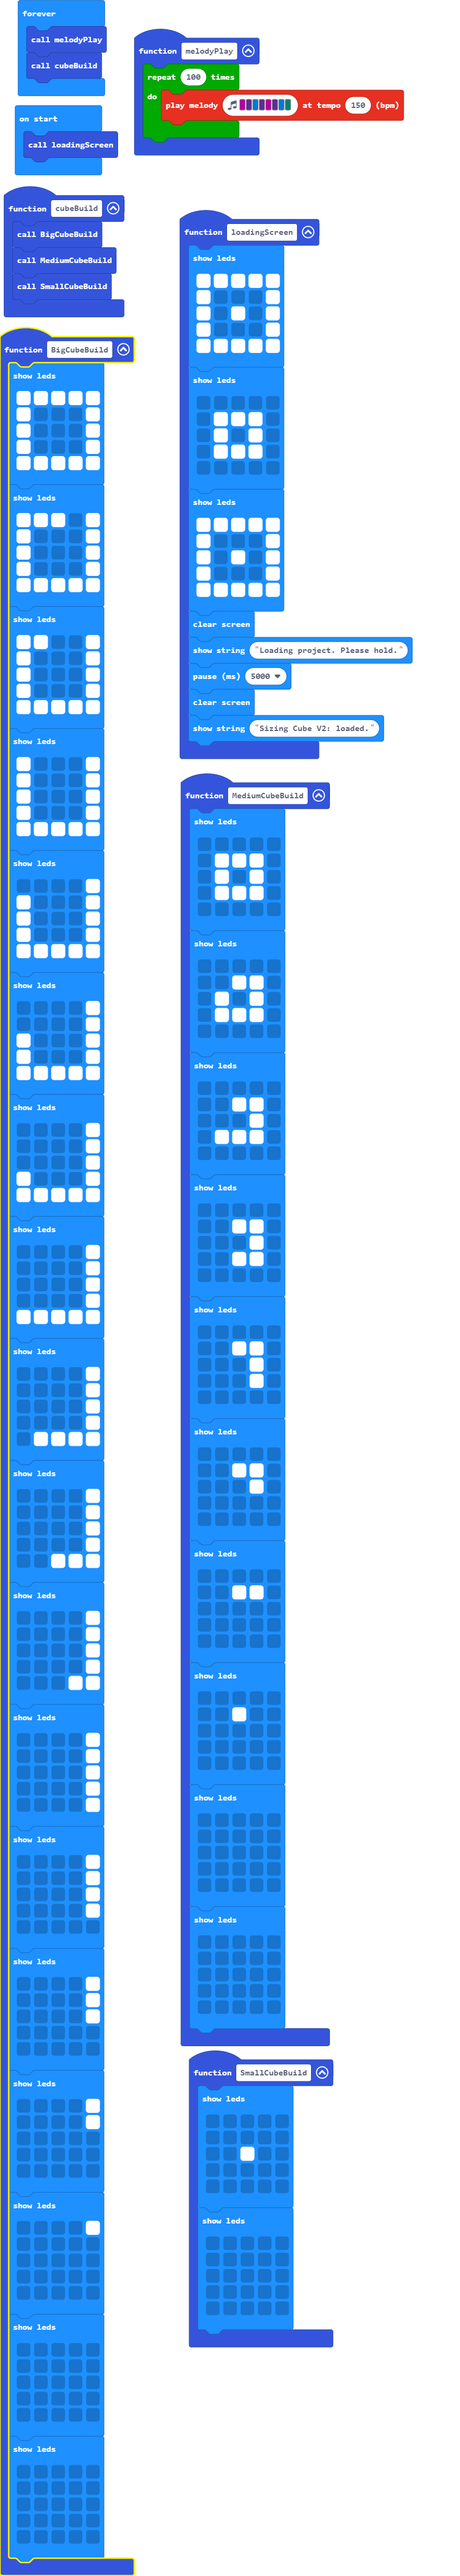
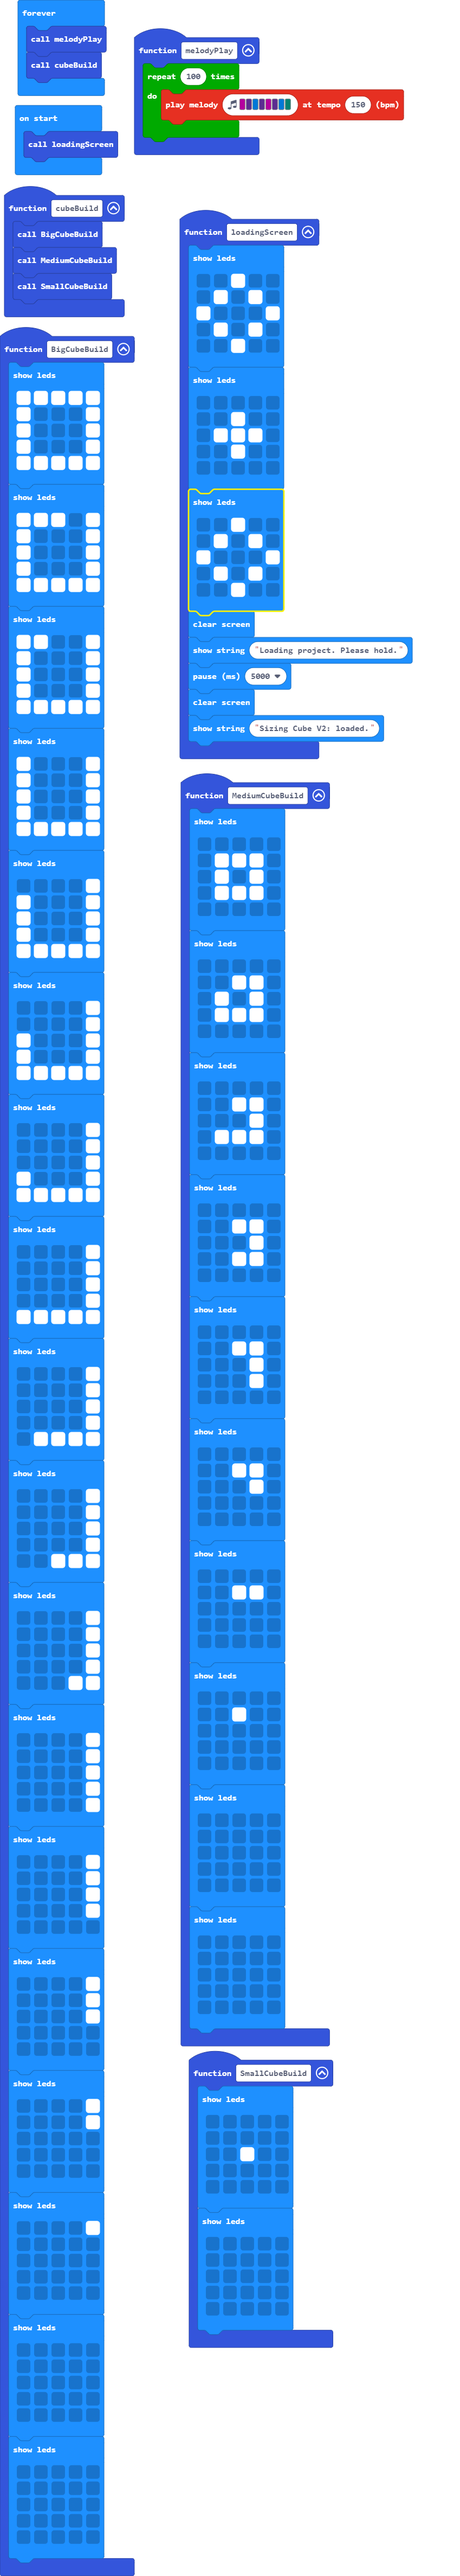
Update main.blocks, main.ts

diff --git a/main.ts b/main.ts
@@ -72,25 +72,25 @@ function MediumCubeBuild () {
 }
 function loadingScreen () {
     basic.showLeds(`
-        # # # # #
-        # . . . #
-        # . # . #
-        # . . . #
-        # # # # #
-        `)
-    basic.showLeds(`
-        . . . . .
-        . # # # .
+        . . # . .
         . # . # .
+        # . . . #
+        . # . # .
+        . . # . .
+        `)
+    basic.showLeds(`
+        . . . . .
+        . . # . .
         . # # # .
+        . . # . .
         . . . . .
         `)
     basic.showLeds(`
-        # # # # #
+        . . # . .
+        . # . # .
         # . . . #
-        # . # . #
-        # . . . #
-        # # # # #
+        . # . # .
+        . . # . .
         `)
     basic.clearScreen()
     basic.showString("Loading project. Please hold.")
